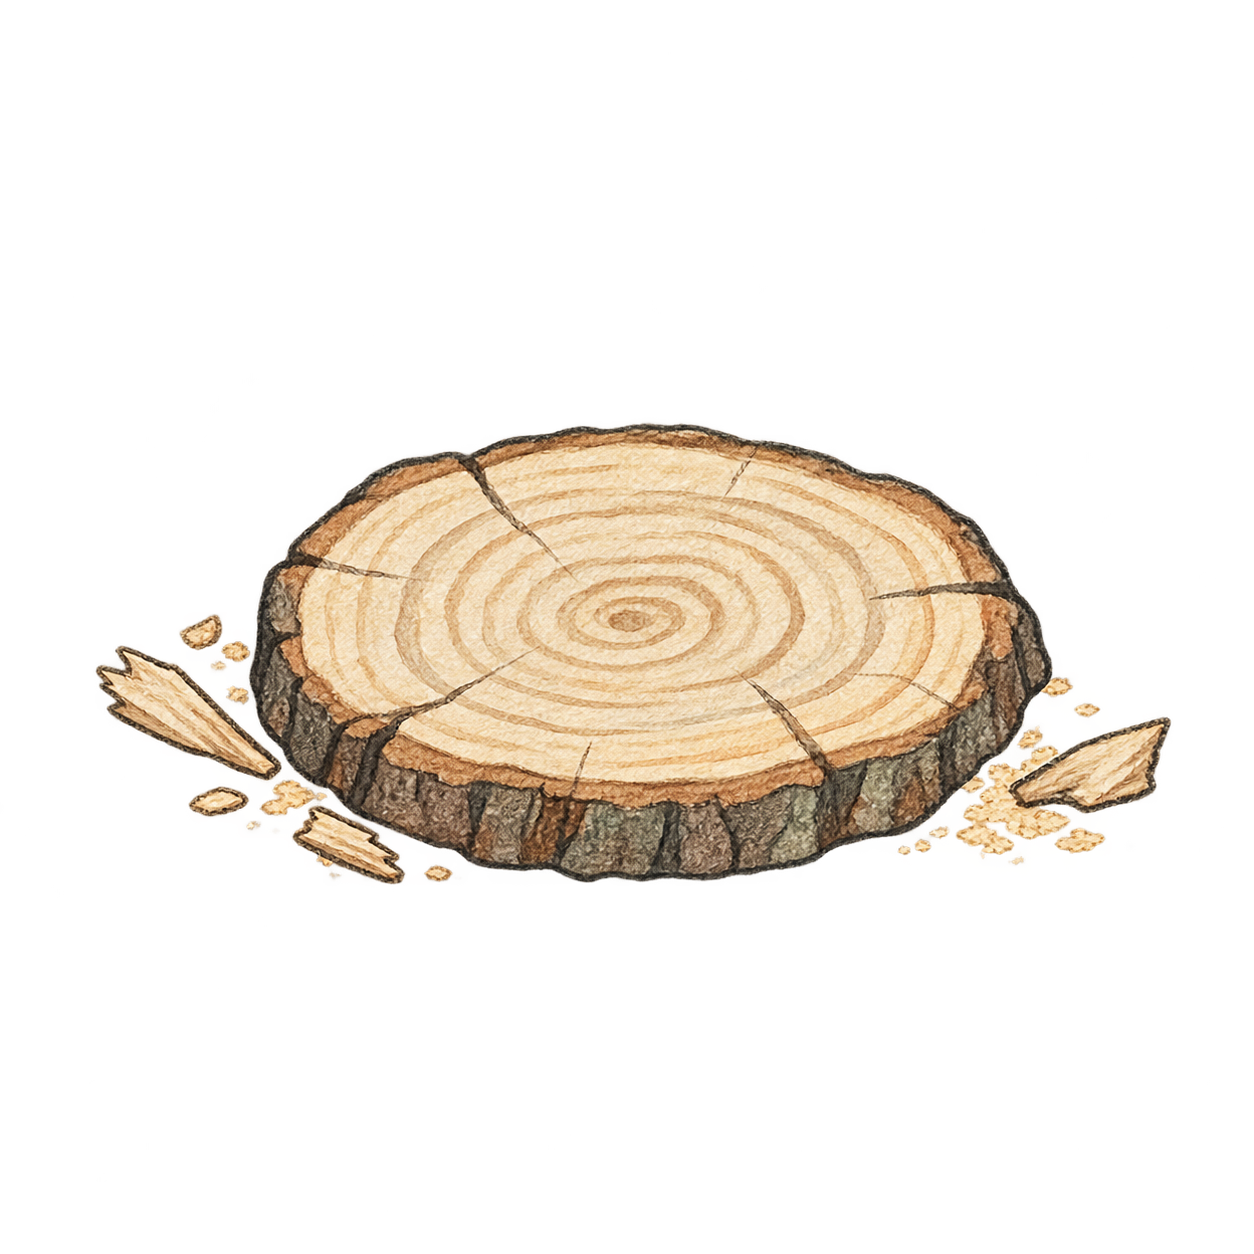
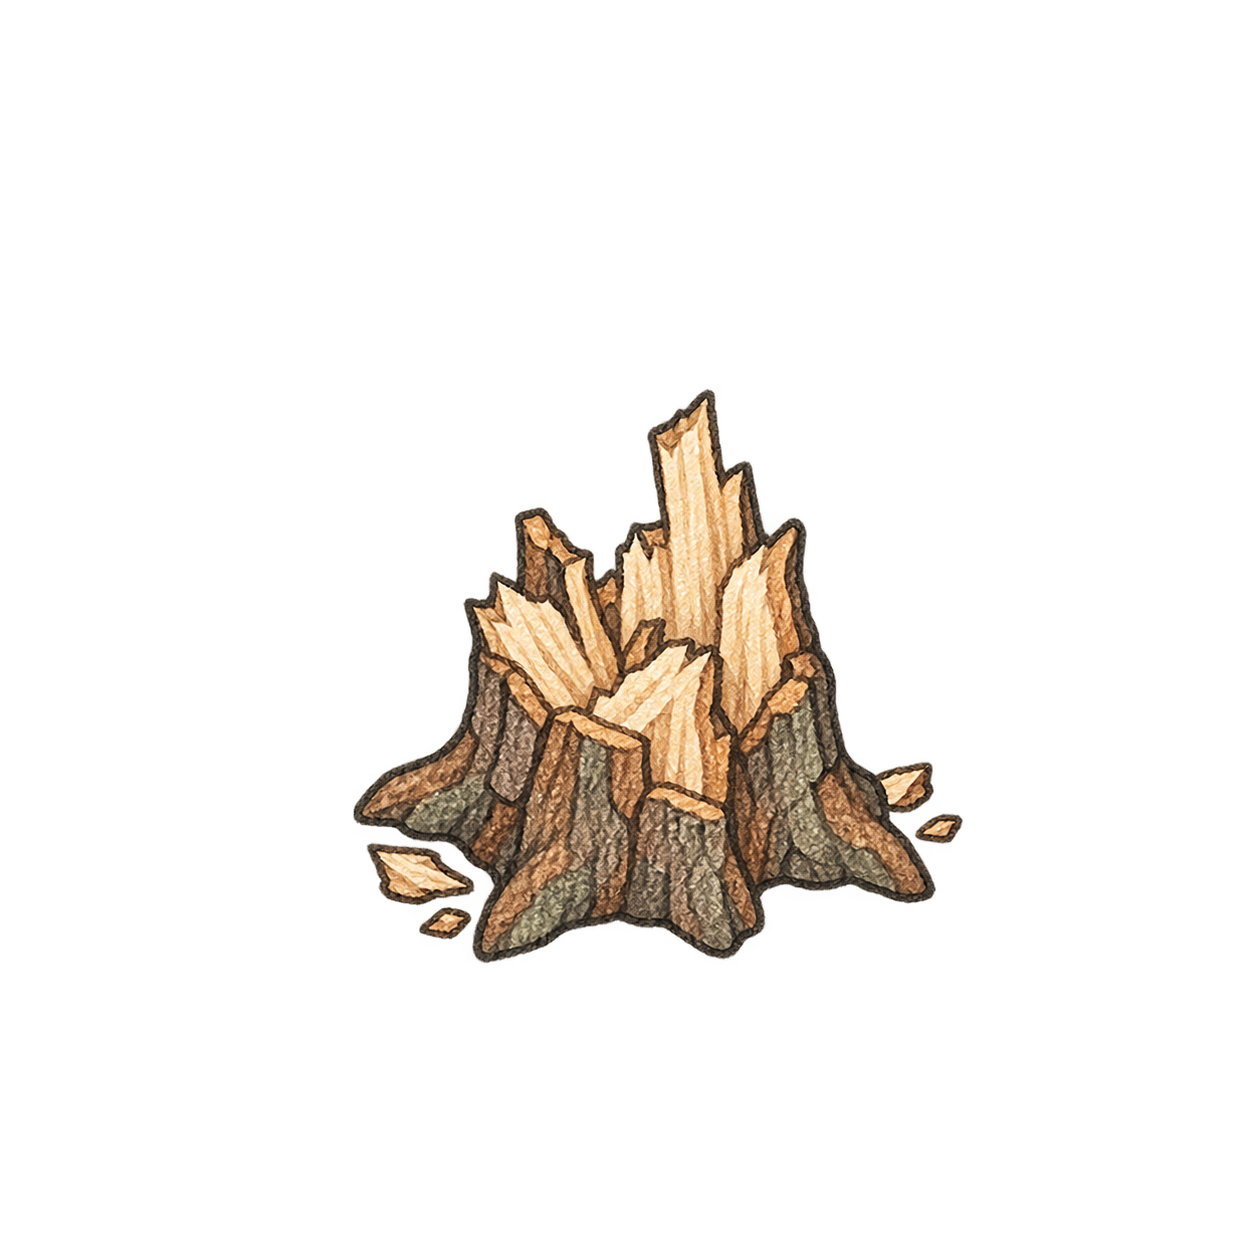
dino: dodaj Updateon i nadłamany pień
Umieszcza Updateon przy starcie gracza, dodaje jego rysowanie i kolizję oraz chroni miejsce przed losową scenerią. Zastępuje równy przekrój drzewa mniejszym, poszarpanym kikutem.

Changed region(s): [[0.0622, 0.311, 0.933, 0.7775]]

diff --git a/dino-vs-kosmici/js/world.js b/dino-vs-kosmici/js/world.js
@@ -38,6 +38,7 @@ export function buildLevel() {
   state.wildAt = null;
   state.scars = [];
   state.pickups = [];
+  state.updateon = null;
 
   // ----- Randomized layout — picked fresh every game -----
   // Alien HQ: anywhere on the map (with margin from edges)
@@ -78,6 +79,18 @@ export function buildLevel() {
       w: 24
     });
   }
+
+  // Updateon is a landmark on the player's side of the map. Put it just off
+  // the first route and inside the opening camera view, so a new run always
+  // shows Antos's upgrade station instead of hiding it somewhere at random.
+  const routeDx = midX - pX, routeDy = midY - pY;
+  const routeLen = Math.hypot(routeDx, routeDy) || 1;
+  const updateonSide = Math.random() < 0.5 ? -1 : 1;
+  state.updateon = {
+    x: clamp(pX - routeDy / routeLen * 130 * updateonSide, 70, WORLD.w - 70),
+    y: clamp(pY + routeDx / routeLen * 130 * updateonSide, 90, WORLD.h - 70),
+    r: 34
+  };
   const terrainSeed = Math.floor(Math.random() * 100000);
   // The widest wobble kindAt() can add to a corridor edge, so scenery clears
   // the path at its widest, not its nominal width.
@@ -129,6 +142,7 @@ export function buildLevel() {
     const x = rand(70, WORLD.w - 70);
     const y = rand(70, WORLD.h - 70);
     if (state.helipad && Math.hypot(x - state.helipad.x, y - state.helipad.y) < r + state.helipad.r + 18) continue;
+    if (state.updateon && Math.hypot(x - state.updateon.x, y - state.updateon.y) < r + state.updateon.r + 24) continue;
     const mainBase = state.bases[0];
     if (Math.abs(x - mainBase.x) < r + mainBase.w/2 + 40 && Math.abs(y - mainBase.y) < r + mainBase.h/2 + 40) continue;
     if (Math.hypot(x - state.player.x, y - state.player.y) < r + 70) continue;
@@ -152,6 +166,7 @@ export function buildLevel() {
     const tx = rand(40, WORLD.w - 40);
     const ty = rand(60, WORLD.h - 60);
     if (Math.hypot(tx - state.player.x, ty - state.player.y) < 80) continue;
+    if (state.updateon && Math.hypot(tx - state.updateon.x, ty - state.updateon.y) < state.updateon.r + 70) continue;
     if (onPath(tx, ty, 22 * 1.2)) continue;   // trunk radius at the largest scale
     const mb = state.bases[0];
     if (Math.abs(tx - mb.x) < mb.w/2 + 30 && Math.abs(ty - mb.y) < mb.h/2 + 30) continue;
@@ -263,6 +278,7 @@ export function rebuildObstacles() {
     if (isBushVariant(t.v)) continue;   // you can walk through a bush
     state.obstacles.push({x: t.x, y: treeFootY(t) - 6, r: 9 * t.s});
   }
+  if (state.updateon) state.obstacles.push(state.updateon);
 }
 
 // Damage every piece of scenery inside a circle. Returns true if anything was

diff --git a/dino-vs-kosmici/js/render/draw.js b/dino-vs-kosmici/js/render/draw.js
@@ -237,6 +237,9 @@ export function draw() {
   drawList.length = 0;
   for (const t of state.trees) if (inView(t.x, t.y, 120)) push(treeFootY(t), drawTree, t);
   for (const r of state.rocks) if (inView(r.x, r.y, 60)) push(r.y + r.r * 0.6, drawRock, r);
+  if (state.updateon && inView(state.updateon.x, state.updateon.y, 70)) {
+    push(state.updateon.y + 16, drawUpdateon, state.updateon);
+  }
   for (const b of state.bases) {
     const box = baseBox(b);
     if (inView(b.x, b.y, boxViewRadius(box, b.y))) push(b.y + b.h / 2, drawBase, b);
@@ -343,11 +346,29 @@ export function drawScar(sc) {
             : PROPS.scarTree;
   if (!imgReady(img)) return;
   const k = clamp(sc.life / 6, 0, 1);          // fade over the last six seconds
-  const w = sc.r * (sc.kind === 'rock' ? 3.0 : 3.4);
+  const wMul = sc.kind === 'rock' ? 3.0 : sc.kind === 'tree' ? 2.2 : 3.4;
+  const w = sc.r * wMul;
   const h = w * img.naturalHeight / img.naturalWidth;
   ctx.save();
   ctx.globalAlpha = 0.9 * k;
-  ctx.drawImage(img, sc.x - w / 2, sc.y - h * 0.62, w, h);
+  const foot = sc.kind === 'tree' ? 0.88 : 0.62;
+  ctx.drawImage(img, sc.x - w / 2, sc.y - h * foot, w, h);
+  ctx.restore();
+}
+
+// Antos's upgrade station. For now it is a visible, solid landmark; the
+// resource prices and upgrade interaction will be wired in as their own step.
+export function drawUpdateon(u) {
+  const img = PROPS.updateon;
+  if (!imgReady(img)) return;
+  const h = 104;
+  const w = h * img.naturalWidth / img.naturalHeight;
+  ctx.save();
+  ctx.fillStyle = 'rgba(255,214,86,0.13)';
+  ctx.beginPath();
+  ctx.ellipse(u.x, u.y + 5, 50, 19, 0, 0, Math.PI * 2);
+  ctx.fill();
+  ctx.drawImage(img, u.x - w / 2, u.y - h * 0.86, w, h);
   ctx.restore();
 }
 

diff --git a/dino-vs-kosmici/js/render/sprites.js b/dino-vs-kosmici/js/render/sprites.js
@@ -87,6 +87,7 @@ export const GROUND_TEX = {
 export const PROPS = {
   fruit:     img('assets/props/fruit.png'),
   pill:      img('assets/props/pill.png'),
+  updateon:  img('assets/props/updateon.png'),
   scarTree:  img('assets/props/scar-tree.png'),
   scarRock:  img('assets/props/scar-rock.png'),
   scarBush:  img('assets/props/scar-bush.png')

diff --git a/dino-vs-kosmici/js/state.js b/dino-vs-kosmici/js/state.js
@@ -35,7 +35,8 @@ export const state = {
   scars: [],
   wildAt: null,
   helipad: null,
-  flag: null
+  flag: null,
+  updateon: null
 };
 export let difficultyKey = 'normal';
 export function setDifficulty(k) { difficultyKey = k; }
